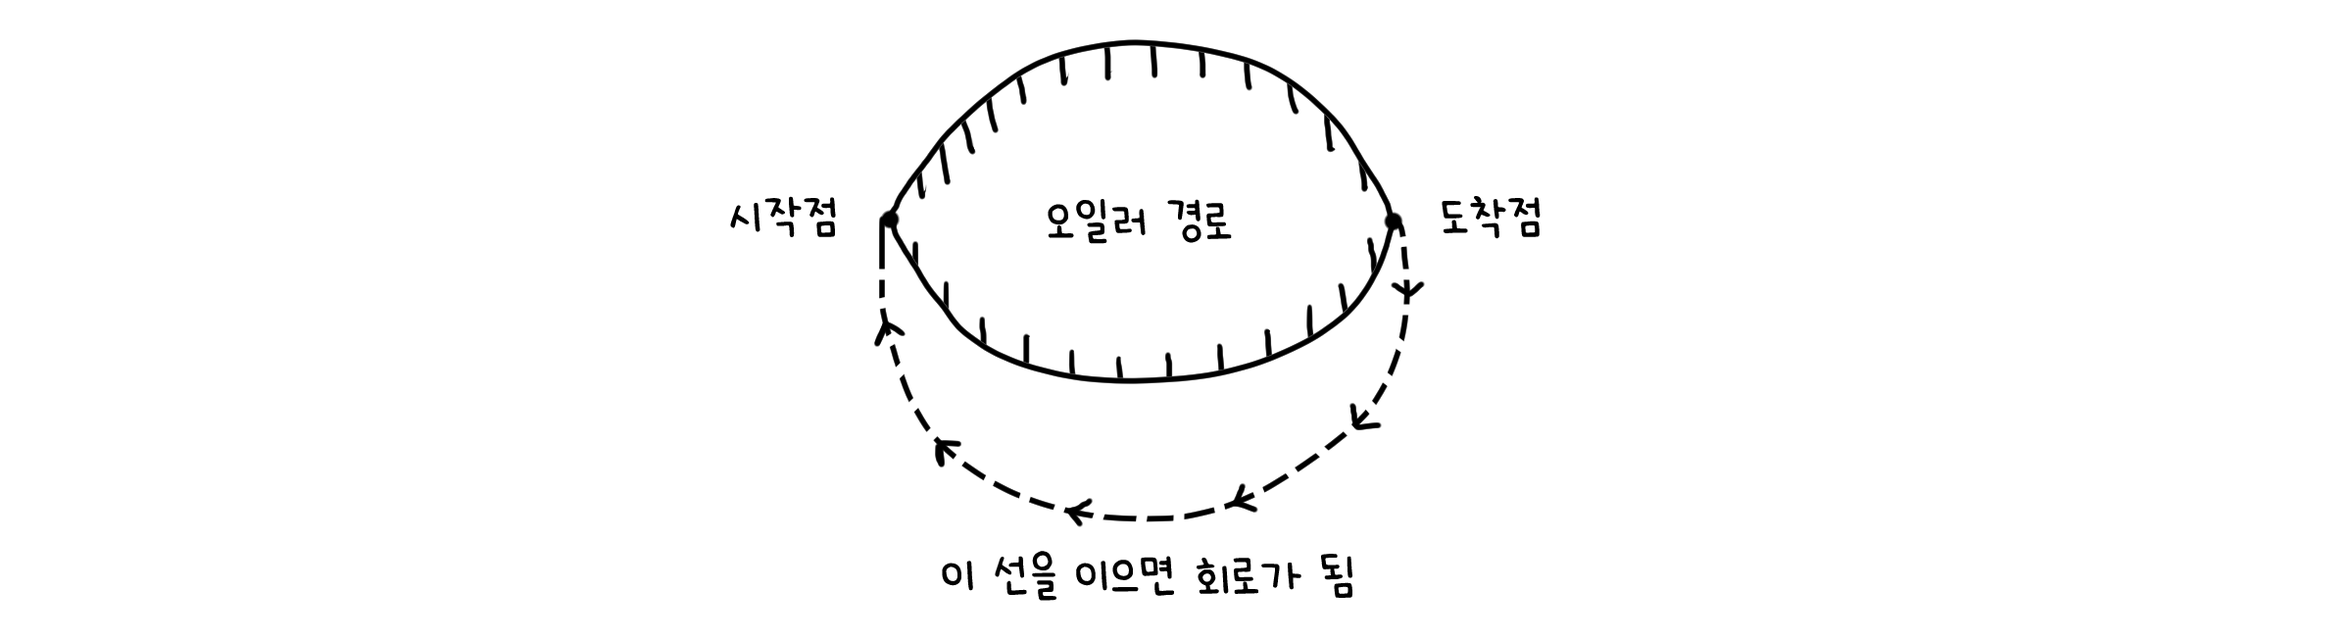
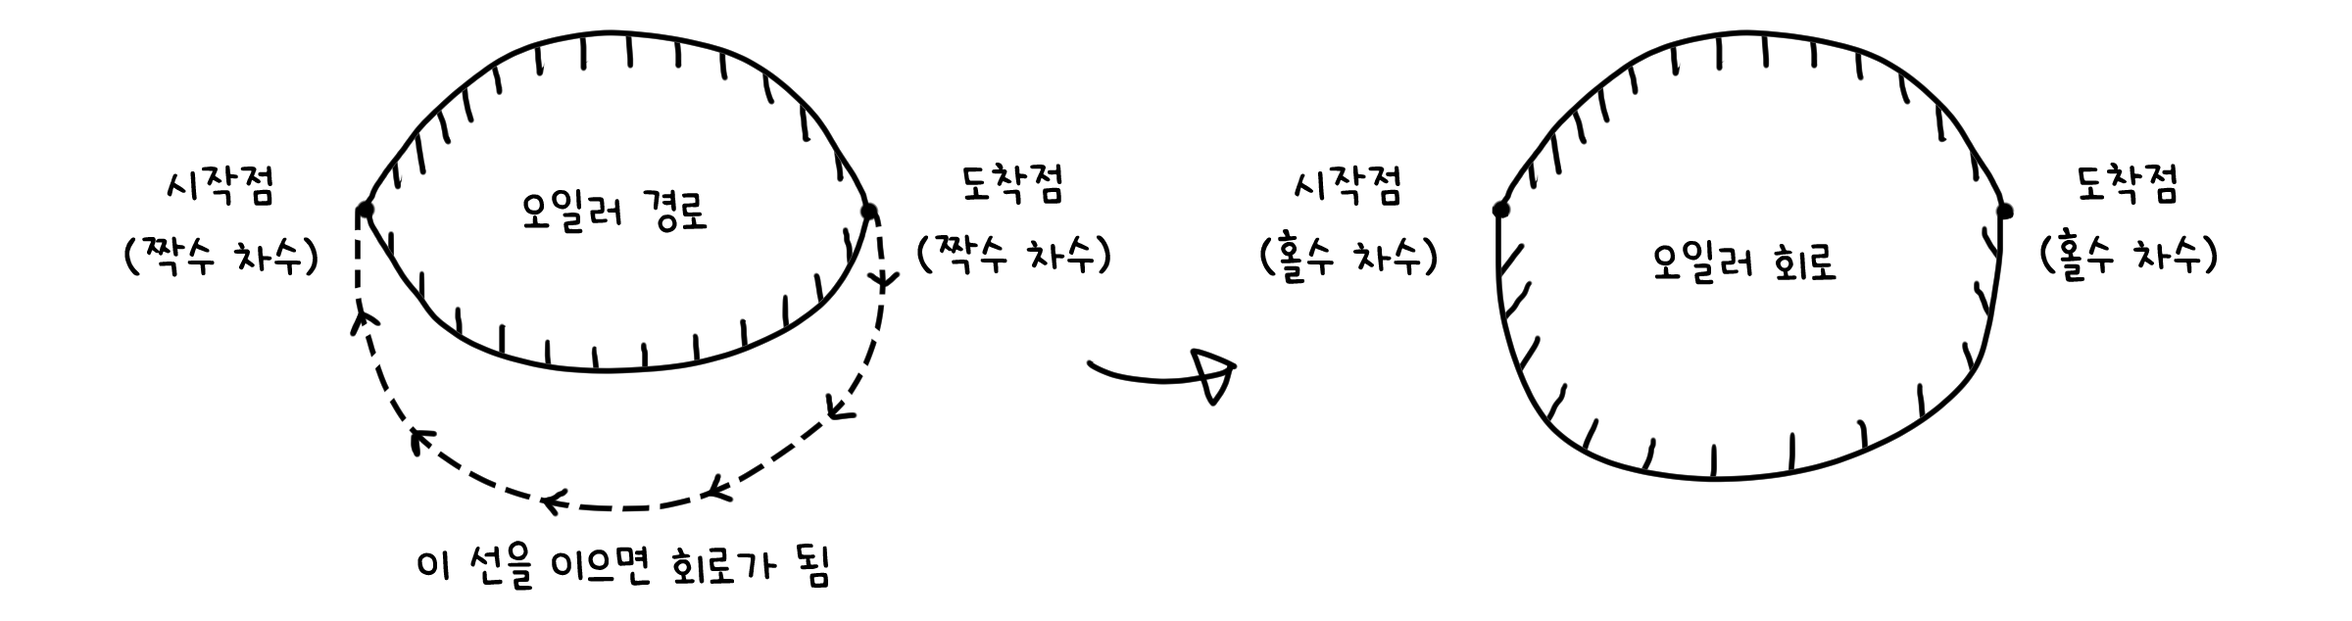
feat: post cm201 9

diff --git a/_posts/2025-12-08-cm201-9.md b/_posts/2025-12-08-cm201-9.md
@@ -1,0 +1,239 @@
+---
+title: '[CM201] 09. 트리 (Tree)'
+description: ''
+author: Doun
+date: 2025-11-24 19:00:00 +0900
+categories: [cm201]
+tags: [이산수학]
+pin: true
+math: true
+mermaid: true
+image:
+  path: /assets/img/thumbnails/cm201/9.png
[1 lines of base64/hex data omitted]
+  alt: '[CM201] 09. 트리 (Tree)'
+---
+
+## 트리 (Tree)
+
+ &ensp;아래 세 조건들을 만족할 때, 그래프는 **트리(Tree)**가 됩니다.
+
+- 연결되어 있을 것 (Connected)
+- 방향이 없을 것 (Undirected)
+- 회로가 아닐 것 (No simple circuit)
+
+<img src="{{ 'assets/img/illustration/cm201/9_1.png' | absolute_url }}" alt="image1" class="post" />
+
+ &ensp;만약 다른 조건은 모두 만족하지만 연결되어 있지 않다면, **숲(Forest)**이라고 부르기도 합니다.
+
+<img src="{{ 'assets/img/illustration/cm201/9_2.png' | absolute_url }}" alt="image2" class="post" />
+
+### 트리의 몇 가지 성질들
+
+ &ensp;정의에 따라 트리가 구성된다면, 아래 특징들을 만족함을 알 수 있습니다.
+
+> **Theorem 1.** <br/>
+> 그래프 $T$가 트리라면, 두 점을 잇는 경로는 하나씩만 존재한다.
+{: .prompt-theorem }
+
+> **Theorem 2.** <br/>
+> 그래프 $T$가 $n$개의 점을 가지는 트리라면, 총 $n-1$개의 선을 가진다.
+{: .prompt-theorem }
+
+> **Theorem 3.** <br/>
+> 그래프 $T$가 트리임은 아래와 동치이다. <br/>
+> - $T$는 연결되어 있고(connected) 순환하지 않는다(acyclic).
+> - $T$는 연결되어 있고(connected) 총 $n-1$개의 선을 가진다.
+> - $T$는 순환하지 않고(acyclic), 총 $n-1$개의 선을 가진다.
+{: .prompt-theorem }
+
+<img src="{{ 'assets/img/illustration/cm201/9_3.png' | absolute_url }}" alt="image3" class="post" />
+
+### 정리2 - 증명
+
+ &ensp;다른 건 직관적으로 이해할 수 있는데, $n-1$개의 선을 가지게 된다는 사실은 조금 생각이 필요해보이죠. 수학적 귀납법을 통해 증명해보겠습니다.
+
+&ensp;**1) 기본 단계.** 트리의 점 개수가 $n=1$인 경우입니다. 이 때는 어떤 선도 생길 수 없으므로(루프가 있으면 회로가 생기기 때문에 안됩니다), 선의 개수는 $n-1 = 0$개가 맞습니다.
+
+<img src="{{ 'assets/img/illustration/cm201/9_4.png' | absolute_url }}" alt="image4" class="post" />
+
+&ensp;**2) 귀납적 단계.** 트리의 점 개수가 $n$개일 때 $n-1$개의 선이 있다고 가정합시다. 당연히 연결되어 있고 순환하지 않는 조건으로요. $n+1$개의 점을 가지는 트리 $T$가 있다고 할 때, 우리는 $T$ 안에서 **가장 긴 경로** $P$를 찾을 수 있을 것입니다.
+
+&ensp;$T$는 순환하지 않으니까, $P$는 회로가 될 수 없습니다. 때문에 $P$의 **시작점이나 도착점은 그 차수가 1일 수 밖에 없어요**. 만약 1보다 더 크다면 더 이어진 선이 있다는 뜻이고, 그렇게 된다면 $P$는 가장 긴 경로가 아니게 되니까요.
+
+<img src="{{ 'assets/img/illustration/cm201/9_5.png' | absolute_url }}" alt="image5" class="post" />
+
+&ensp;(무엇이 되었든)시작점 또는 도착점 중 하나를 $v$라고 합시다. 이제 $T$에서 **이 점을 빼 볼거에요**($v$와 연결된 선도 빠지겠죠). $v$가 빠진 새로운 그래프를 $T^\*$라고 할게요. 우선 $T^\*$가 **트리를 만족하는지** 살펴봅시다. $v$는 차수가 1이므로, 어떠한 두 점도 $v$를 통해 연결되어 있지 않습니다. 따라서 원래 연결되어 있고 순환하지 않던 $T$는 $v$ 하나가 빠졌다고 해서 연결이 끊어지거나 순환 회로가 생겨나지 않을 것입니다. 따라서 $T^\*$도 똑같이 트리라고 볼 수 있겠죠.
+
+<img src="{{ 'assets/img/illustration/cm201/9_6.png' | absolute_url }}" alt="image6" class="post" />
+
+&ensp;이제 $T^\*$가 몇 개의 점을 가지고 있는지 살펴봅시다. $T$의 점은 $n+1$개였고, 거기서 점 $v$를 빼내었으니 $T^\*$는 $n$개의 점을 가지고 있을 것입니다. $n$개의 점을 가진 트리, 우리는 귀납적 단계 초기에 가정을 했었죠? **트리의 점 개수가 $n$개일 때 $n-1$개의 선이 있다고**요. 가정대로라면, $T^\*$는 $n-1$개의 선을 가지고 있겠네요.
+
+&ensp;우리가 $T^\*$를 만들 때 몇 개의 선을 뺐을까요? $v$의 차수가 1이었으니, 함께 제거된 선 또한 1개입니다. 따라서 원래 그래프 $T$에서 선의 개수는 $(n-1)+1=n$개가 되고, **점 $n+1$개의 경우에도 정리를 만족함을 보일 수 있습니다**. $\Box$
+
+## 신장 트리 (Spanning tree)
+
+ &ensp;어떤 그래프 $G$에 대해서 모든 점을 포함하는 하위 트리가 있을 때, 그 트리를 **신장 트리(Spanning tree)**라고 부릅니다. 신장 트리가 존재한다면 그 그래프는 연결되어 있다고 볼 수 있으며, 그 반대도 성립합니다.
+
+<img src="{{ 'assets/img/illustration/cm201/9_6_1.png' | absolute_url }}" alt="image6_1" class="post" />
+
+> 신장 트리는 그래프 순회를 통해 쉽게 찾을 수 있습니다. 순회 방법중 대표적인 것은 깊이 우선 탐색(Depth First Search, DFS)과 너비 우선 탐색(Breath First Search, BFS)이 있습니다. 이에 대한 것은 '알고리즘' 포스트에서 더 자세히 다루겠습니다.
+{: .prompt-info }
+
+## 루트 트리 (Rooted tree)
+
+ &ensp;앞서 제시한 트리의 정의를 보면, 그 이름처럼 나무(tree)를 연상시키기는 어렵지 않나요? 뻗어져 나가 갈라지는 구조를 가지긴 했지만 나무보다는 뭐랄까, 아메바같잖아요.
+
+<img src="{{ 'assets/img/illustration/cm201/9_7.png' | absolute_url }}" alt="image7" class="post" />
+
+ &ensp;그래서 좀더 나무 같은 모습이 되도록 트리를 재정의해봅시다. 자고로 나무라면 그 근원이 되는 뿌리가 있어야 하는 법이죠. 트리의 한 점에게 **루트(root)**라는 역할을 부여해봅시다. 그렇다면 이 그래프는 출발점을 가진 **루트 트리(Rooted tree)**가 되어 **한 곳**에서 **한 방향**으로 뻗어나가는 모습이 될 것입니다.
+
+<img src="{{ 'assets/img/illustration/cm201/9_8.png' | absolute_url }}" alt="image8" class="post" />
+
+<img src="{{ 'assets/img/illustration/cm201/9_9.png' | absolute_url }}" alt="image9" class="post" />
+
+ &ensp;이제 좀 트리같지 않나요?
+
+## 이진 트리 (Binary tree)
+
+ &ensp;**이진 트리(Binary tree)**는 트리의 특별한 형태로, 하나의 노드가 **최대 두 개의 자식**을 가질 수 있습니다. 모든 노드가 0개 혹은 2개의 자식을 가진다면 **가득 채워져 있다(Full binary tree)**고 하고, 모든 잎 노드의 높이가 동일하다면 **균형 잡혀 있다(Balanced binary tree)**고 말합니다.
+
+<img src="{{ 'assets/img/illustration/cm201/9_10.png' | absolute_url }}" alt="image10" class="post" />
+
+ &ensp;좀 더 일반적으로 가면, 하나의 노드가 최대 m개의 자식을 가질 수 있는 **m-항 트리(m-ary tree)**를 정의할 수도 있습니다.
+
+> **Theorem 4.** <br/>
+> 가득 찬 m-ary 트리의 $i$개의 내부 노드를 가질 때, 총 $mi + 1$개의 노드와 $(m-1)i + 1$개의 잎 노드를 가진다.
+{: .prompt-theorem }
+
+> **Theorem 5.** <br/>
+> 가득 찬 m-ary 트리의 높이가 $h$일 때, 최대 $m^h$개의 잎 노드를 가질 수 있다.
+{: .prompt-theorem }
+
+## 동형사상 (Isomorphism)
+
+ &ensp;그래프에서의 동형사상에 대해 기억하나요? 트리 또한 그래프의 일종이니, 똑같이 동형사상에 대해 이야기해볼 수 있습니다. 정의는 그래프에서 다루었던 그것과 동일합니다. 두 트리 $T_1 = (V_1, E_1)$, $T_2 = (V_2, E_2)$가 있을 때 각각의 점과 선들이 대응되는 일대일 함수 $f: V_1 \rightarrow V_2$ 와 $g: E_1 \rightarrow E_2$ 가 다음을 만족한다면, 동형사상이라고 말할 수 있습니다.
+ 
+$$ e=(w, v) \in E_1 \; \leftrightarrow \; g(e)=(f(v), f(w)) \in E_2 $$
+
+<img src="{{ 'assets/img/illustration/cm201/9_11.png' | absolute_url }}" alt="image11" class="post" />
+
+### 루트 트리에서
+
+ &ensp;루트 트리는 일반적인 트리에 조건이 또 하나 붙죠. **루트로 지정된 노드가 존재**합니다. 따라서 루트 트리의 동형사상에는 한 가지 조건이 더 추가됩니다. 두 트리 $T_1, T_2$의 루트가 각각 $r_1, r_2$일 때,
+
+$$ f(r_1) = r_2 $$
+
+<img src="{{ 'assets/img/illustration/cm201/9_12.png' | absolute_url }}" alt="image12" class="post" />
+
+### 이진 트리에서
+
+ &ensp;이어서 이진 트리는 루트 트리에 더해 **자식이 둘 까지 존재**할 수 있다는 조건이 추가됩니다. 때문에 이진 트리의 동형 사상은 **왼쪽 자식과 오른쪽 자식의 위치가 그대로 보존**되어야 한다는 조건이 더해집니다.
+
+$$f(v_{1left}) = v_{2left}, \; f(v_{1right}) = v_{2right}$$
+
+<img src="{{ 'assets/img/illustration/cm201/9_13.png' | absolute_url }}" alt="image13" class="post" />
+
+### 비동형성 (Non-isomorphism)
+
+ &ensp;7장에서 말했듯이 다시 한 번, 두 트리가 서로 동형사상인지 파악할 때 무작정 모양을 바꿔가며 확인하는 것은 상당히 까다로운 일입니다. 그래서 어떤 때는 두 트리가 동형사상이 **아니다**는 것을 증명하는게 더 빠를 때도 있습니다. 게다가 트리는 그래프와 달리 루트 노드나 자식과 부모 사이의 관계 등 지켜야 하는 조건이 더 많으니 완전히 다른 모습의 트리를 세는 것이 더 쉬울 수도 있습니다. 그리고 상당히 적은 수의 점에 대해서는 직접 모양을 세면서 확인할 수도 있고요.
+
+> **Theorem 6.** <br/>
+> 점의 개수가 5개인 **트리**는 3개의 서로 다른 비동형 트리를 가진다.
+{: .prompt-theorem }
+
+<img src="{{ 'assets/img/illustration/cm201/9_14.png' | absolute_url }}" alt="image14" class="post" />
+
+> **Theorem 7.** <br/>
+> 점의 개수가 4개인 **루트 트리**는 4개의 서로 다른 비동형 트리를 가진다.
+{: .prompt-theorem }
+
+<img src="{{ 'assets/img/illustration/cm201/9_15.png' | absolute_url }}" alt="image15" class="post" />
+
+> **Theorem 8.** <br/>
+> 점의 개수가 3개인 **이진 트리**는 5개의 서로 다른 비동형 트리를 가진다.
+{: .prompt-theorem }
+
+<img src="{{ 'assets/img/illustration/cm201/9_16.png' | absolute_url }}" alt="image16" class="post" />
+
+ &ensp;실제로 조건이 추가되는 트리, 루트 트리, 이진 트리의 순서대로 비동형 트리의 종류가 늘어나는 것을 볼 수 있습니다. 심지어 점의 개수가 더 적더라도요! 특히 이 이진 트리에 대해서는, 이렇게 일반화 해볼 수 있겠습니다.
+
+> **Theorem 9.** <br/>
+> 점의 개수가 $n$개인 이진 트리가 $C_n$개의 서로 다른 비동형 트리를 가진다고 할 때, 아래가 성립한다. <br/>
+> $$C_n = \sum_{k=0}^{n-1}{C_kC_{n-k-1}} \quad (C_0 = 1, C_1 = 1)$$
+{: .prompt-theorem }
+
+<img src="{{ 'assets/img/illustration/cm201/9_17.png' | absolute_url }}" alt="image17" class="post" />
+
+## 트리들의 재귀적 정의
+
+ &ensp;그림을 훑어보면 짐작할 수 있듯이, 트리는 부분이 전체를 닮은 모양을 나타냅니다. 그래서 트리를 확장시키기 용이하도록 그 모양을 **재귀적으로 정의**할 수도 있습니다. $r_i$를 트리 $T_i$의 루트 노드라고 했을 때, 각 트리는 아래와 같이 정의될 수 있습니다.
+
+|                | 기본 단계            | 재귀 단계              |
+| :------------- | :----------------: | :-------------------: |
+| 루트 트리       | 점 $r$              | 트리 $T_i \; (i=1, 2, ..., n)$와<br/> 새로운 점 $r$에 대해 $(r, r_i) \in T$인 트리 $T$ |
+| 이진 트리       | 빈 트리 $\emptyset$  | 이진 트리 $T_i \; (i=1, 2)$와<br/> 새로운 점 $r$에 대해 $(r, r_i) \in T$인 트리 $T$    |
+| 채워진 이진 트리 | 점 $r$              | 채워진 이진 트리 $T_i \; (i=1, 2)$와<br/> 새로운 점 $r$에 대해 $(r, r_i) \in T$인 트리 $T$ |
+
+<img src="{{ 'assets/img/illustration/cm201/9_18.png' | absolute_url }}" alt="image18" class="post" />
+
+<img src="{{ 'assets/img/illustration/cm201/9_19.png' | absolute_url }}" alt="image19" class="post" />
+
+<img src="{{ 'assets/img/illustration/cm201/9_20.png' | absolute_url }}" alt="image20" class="post" />
+
+ &ensp;재귀적 표현에 대해서는 이미 6장에서 살펴보았으니, 다시 참고해도 좋을 것 같습니다.
+
+## 트리의 활용 방법
+
+ &ensp;우리는 앞서 그래프를 사용하여 여러가지 경로 문제들을 해결해보았습니다. 여기서 트리를 사용하면, 좀더 복잡한 상황의 문제들도 도식화해서 풀어낼 수 있습니다.
+
+### 이진 탐색 트리 (Binary Search Tree, BST)
+
+ &ensp;탐색을 위해 구성한 특수한 조건의 이진 트리를 **이진 탐색 트리(Binary Search Tree, BST)**라고 합니다.
+
+ &ensp;이진 탐색 트리의 각 노드는 그 값의 대소관계에 따라 정렬되어 있습니다. 어떤 노드의 값을 $e$라고 했을 때, 그 노드의 **왼쪽 하위 트리**는 모두 $e$보다 **작은 값**을 가지고, **오른쪽 하위 트리**는 모두 $e$보다 **큰 값**을 가지게 되는 식입니다.
+
+<img src="{{ 'assets/img/illustration/cm201/9_21.png' | absolute_url }}" alt="image21" class="post" />
+
+ &ensp;원하는 값을 찾으려면, 노드마다 간단한 문답을 하면 됩니다. **내가 찾고자 하는 값이 현재 노드의 값보다 큰지 작은지**를 물어보는 것이죠. 만약 작다면, 왼쪽 자식으로 내려가면 됩니다. 반대로 크다면, 오른쪽 자식으로 내려가겠죠. 둘 다 아니라면? 그 노드가 우리가 찾던 노드가 되겠죠!
+
+### 호프만 코딩 (Huffman coding)
+
+ &ensp;그런데 말입니다, 만약 값 자체가 아니라 그 **값이 가지는 특정 수치**를 기준으로 탐색을 하려면 어떻게 해야 할까요? 가령, **중요도가 가장 높은** 값이거나 **가장 자주 등장**하는 값 같은 경우가 되겠네요. 이진 탐색 트리를 사용한다면, 어쩔 수 없이 모든 값을 순회한 후 최대치를 가지는 노드를 선택해야 할 것입니다. 하지만 **호프만 코딩(Huffman coding)**을 사용한다면, 최소한의 비트만으로 노드들을 가중치에 맞게 정렬시킬 수 있습니다.
+
+ &ensp;여기 여섯개의 노드와 각각에 해당하는 가중치가 있습니다.
+
+<img src="{{ 'assets/img/illustration/cm201/9_22.png' | absolute_url }}" alt="image22" class="post" />
+
+ 
+ &ensp;여기서 **가장 작은 값을 가지는 노드 두 개**를 골라, 그 둘을 자식으로 가지는 루트 노드를 만들어줍시다. 두 값 중 큰 값은 왼쪽, 작은 값은 오른쪽으로 오도록 합니다. 그리고 왼쪽 값은 **0**, 오른쪽 값은 **1**이라는 비트를 부여합니다(이 비트가 어떤 역할을 하는 지는 나중에 알게 되니, 일단 넘어가요). 루드의 값은 두 값을 더한 값이 됩니다.
+
+<img src="{{ 'assets/img/illustration/cm201/9_23.png' | absolute_url }}" alt="image23" class="post" />
+
+ &ensp;이 과정을 계속 반복해보도록 하죠. 모든 노드가 연결될 때까지요.
+
+<img src="{{ 'assets/img/illustration/cm201/9_24.png' | absolute_url }}" alt="image24" class="post" />
+
+ &ensp;연결된 이진 트리가 완성되었다면, 이제 루트에서 각 노드로 내려오면서 숫자를 부여할 수 있습니다. 높이 2인 **E(10)**와 **F(00)**는 두 자리, 높이 3인 **A(111)**, **B(110)**, **C(011)**는 세 자리의 비트를 가지게 됩니다. 이 방법은 노드들이 (이 경우에는)내림차순대로 정렬된다는 장점도 있지만, 더 중요한 것은 **사용하는 비트가 최소가 되도록 설정**할 수 있다는 것입니다. 자주 사용되는 노드의 비트는 작게 부여함으로서 평균적으로 사용되는 비트의 수를 최소화하게 됩니다. 만약 가중치가 출현 빈도를 뜻한다면, 이 예시에서 우리가 평균적으로 사용하게 될 비트 수는
+ 
+$$3 \times 0.08 + 3 \times 0.10 + 3 \times 0.12 + 3 \times 0.15 + 2 \times 0.20 + 2 * \times 0.35 = 2.45$$
+
+ &ensp; 3비트보다 적은 2.45비트가 됩니다.
+
+### 의사 결정 트리 (Decision tree)
+
+ &ensp;**의사 결정 트리(Decision tree)**는 어떤 상황에 대한 결정에 따라 다음 행동을 취하도록 설계한 트리입니다. 이진 탐색 트리와 비슷해 보이지만, 값들을 탐색/삽입/삭제하기 용이하도록 설계된 데이터 구조인 이진 탐색 트리와는 달리 사용자가 임의로 부여한 규칙에 따라 행동을 취한다는 점에서 다른 구조라고 할수 있습니다.
+
+ &ensp;의사 결정 트리(Decision tree)에서 하나의 노드는 하나의 질문을 던집니다. 예/아니오로 대답할 수 있는 질문일 수도 있고, 여러 답이 나오는 다지선다일 수도 있습니다. 어쨌거나 각각의 대답은 하나의 선으로 이어지고, 선은 또 다른 질문으로 이어지게 됩니다. 계속되는 문답 끝에 잎 노드는 적절한 답을 내놓게 됩니다. 
+
+<img src="{{ 'assets/img/illustration/cm201/9_25.png' | absolute_url }}" alt="image25" class="post" />
+
+ &ensp;이런 문제를 생각해봅시다. 다섯개의 동전이 있습니다. 이들은 모두 겉보기에 같아 보이지만, 한 동전은 가짜 동전이어서 다른 것들보다 가볍거나 무겁습니다. 우리는 다섯 동전 중 두 개를 골라 서로 무게를 비교하여 어느 쪽이 더 무거운지(혹은 같은 무게인지) 판별할 수 있습니다. 최소한의 시행으로 가짜 동전을 알아낼 수 있을까요? 이 문제도 의사 결정 트리를 구성해보면 쉽게 풀 수 있습니다.
+
+<img src="{{ 'assets/img/illustration/cm201/9_26.png' | absolute_url }}" alt="image26" class="post" />
+
+ &ensp;다섯 개의 동전에 1 부터 5까지의 번호를 부여합니다. 그리고 두 동전을 비교하여 어느쪽이 무거운 지 비교하는 과정을 하나의 노드로 나타냅니다. 가능한 답은 무겁다/가볍다/똑같다 세 가지가 될 수 있으니, 하나의 노드는 최대 세 개의 선을 가질 수 있습니다. 그 선으로 이어지는 자식들은 또 다른 두 동전을 비교하게 되겠죠? 그렇게 가능한 경우의 수를 좁히다보면 다른 동전과 무게가 다른 가짜 동전을 특정할 수 있게 될 것입니다.
+
+<img src="{{ 'assets/img/illustration/cm201/9_27.png' | absolute_url }}" alt="image27" class="post" />
+
+<img src="{{ 'assets/img/illustration/cm201/9_28.png' | absolute_url }}" alt="image28" class="post" />

diff --git a/_posts/2025-11-24-cm201-8.md b/_posts/2025-11-24-cm201-8.md
@@ -73,21 +73,25 @@ $$ (v_0, \; e_1, \; v_1, \; e_2, \; ..., \; e_n, \; v_n) $$
 
  &ensp;회로는 방문하는 점을 한 번씩 들어가고 나오기 때문에, **방문 횟수당 2의 차수를 추가**합니다. 따라서 모든 점의 차수는 **반드시 2의 배수를 가집니다**. $\Box$
 
+<img src="{{ 'assets/img/illustration/cm201/8_6_1.png' | absolute_url }}" alt="image6_1" class="post" />
+
 #### 2. 그래프의 모든 점이 짝수 차수를 가질 때
 
  &ensp;수학적 귀납법으로 증명할 수 있습니다.
 
- &ensp;**1. 기본 단계.** 그래프의 선이 두 개인 경우입니다(선이 0, 1개인 경우는 시작점과 도착점이 동일하게 고정되므로 자명합니다). 선이 두 개일 때 연결되면서 모든 차수가 짝수개인 그래프는 아래와 같은 모양을 생각할 수 있겠습니다. 이 경우 오일러 회로를 가질 수 있다는 것을 바로 알 수 있습니다.
+ &ensp;**1) 기본 단계.** 그래프의 선이 두 개인 경우입니다(선이 0, 1개인 경우는 시작점과 도착점이 동일하게 고정되므로 자명합니다). 선이 두 개일 때 연결되면서 모든 차수가 짝수개인 그래프는 아래와 같은 모양을 생각할 수 있겠습니다. 이 경우 오일러 회로를 가질 수 있다는 것을 바로 알 수 있습니다.
 
 <img src="{{ 'assets/img/illustration/cm201/8_7.png' | absolute_url }}" alt="image7" class="post" />
 
- &ensp;**2. 귀납적 단계.** 그래프의 선이 n개인 경우 입니다. 이 그래프를 $G$라고 하겠습니다. $G$의 하위 그래프 중에서 **연결되어 있고 모든 점의 차수가 짝수인 그래프**를 $C$라고 둡니다. 이제 $C$의 선이 k개(k < n)일 때, 오일러 회로를 가진다고 가정합시다. 이 때 $G$ 또한 오일러 회로를 가짐을 보이면 됩니다. 여기서 또 두 가지 경우를 나눌 수 있습니다. **점이 두 개**일 때와, **세 개 이상**일 때로요.
+ &ensp;**2) 귀납적 단계.** 그래프의 선이 n개인 경우 입니다. 이 그래프를 $G$라고 하겠습니다. $G$의 하위 그래프 중에서 **연결되어 있고 모든 점의 차수가 짝수인 그래프**를 $C$라고 둡니다. 이제 $C$의 선이 k개(k < n)일 때, 오일러 회로를 가진다고 가정합시다. 이 때 $G$ 또한 오일러 회로를 가짐을 보이면 됩니다. 여기서 또 두 가지 경우를 나눌 수 있습니다. **점이 두 개**일 때와, **세 개 이상**일 때로요.
 
- &ensp;**2.1. 점이 두 개일 때.** $C$에 선이 추가되는 경우, 각 점의 차수가 짝수가 되도록 유지하는 방법은 두 가지가 있습니다. 한 점에 **루프**가 하나 추가되거나, 두 점을 왕복하는 **평행선** 한 쌍이 추가되는 경우입니다. 두 가지 경우 모두 오일러 회로를 보일 수 있습니다.
+<img src="{{ 'assets/img/illustration/cm201/8_7_1.png' | absolute_url }}" alt="image7_1" class="post" />
+
+ &ensp;**2.1) 점이 두 개일 때.** $C$에 선이 추가되는 경우, 각 점의 차수가 짝수가 되도록 유지하는 방법은 두 가지가 있습니다. 한 점에 **루프**가 하나 추가되거나, 두 점을 왕복하는 **평행선** 한 쌍이 추가되는 경우입니다. 두 가지 경우 모두 오일러 회로를 보일 수 있습니다.
 
 <img src="{{ 'assets/img/illustration/cm201/8_8.png' | absolute_url }}" alt="image8" class="post" />
 
- &ensp;**2.2. 점이 세 개 이상일 때.** $G$의 모든 점의 차수는 짝수가 되어야 하고 $C$의 모든 점의 차수도 짝수이므로, $G$에서 $C$의 선을 뺀 그래프 $G'$또한 **모든 점이 짝수 차수**를 가질 것입니다. 또한 $G'$ 자체는 모두 연결되어 있지 않을 수 있지만, $G$가 연결된 그래프였기 때문에 $G'$의 **연결 부분들은 각각이 또 다른 연결된 그래프**임을 알 수 있습니다.
+ &ensp;**2.2) 점이 세 개 이상일 때.** $G$의 모든 점의 차수는 짝수가 되어야 하고 $C$의 모든 점의 차수도 짝수이므로, $G$에서 $C$의 선을 뺀 그래프 $G'$또한 **모든 점이 짝수 차수**를 가질 것입니다. 또한 $G'$ 자체는 모두 연결되어 있지 않을 수 있지만, $G$가 연결된 그래프였기 때문에 $G'$의 **연결 부분들은 각각이 또 다른 연결된 그래프**임을 알 수 있습니다.
 
 <img src="{{ 'assets/img/illustration/cm201/8_9.png' | absolute_url }}" alt="image9" class="post" />
 
